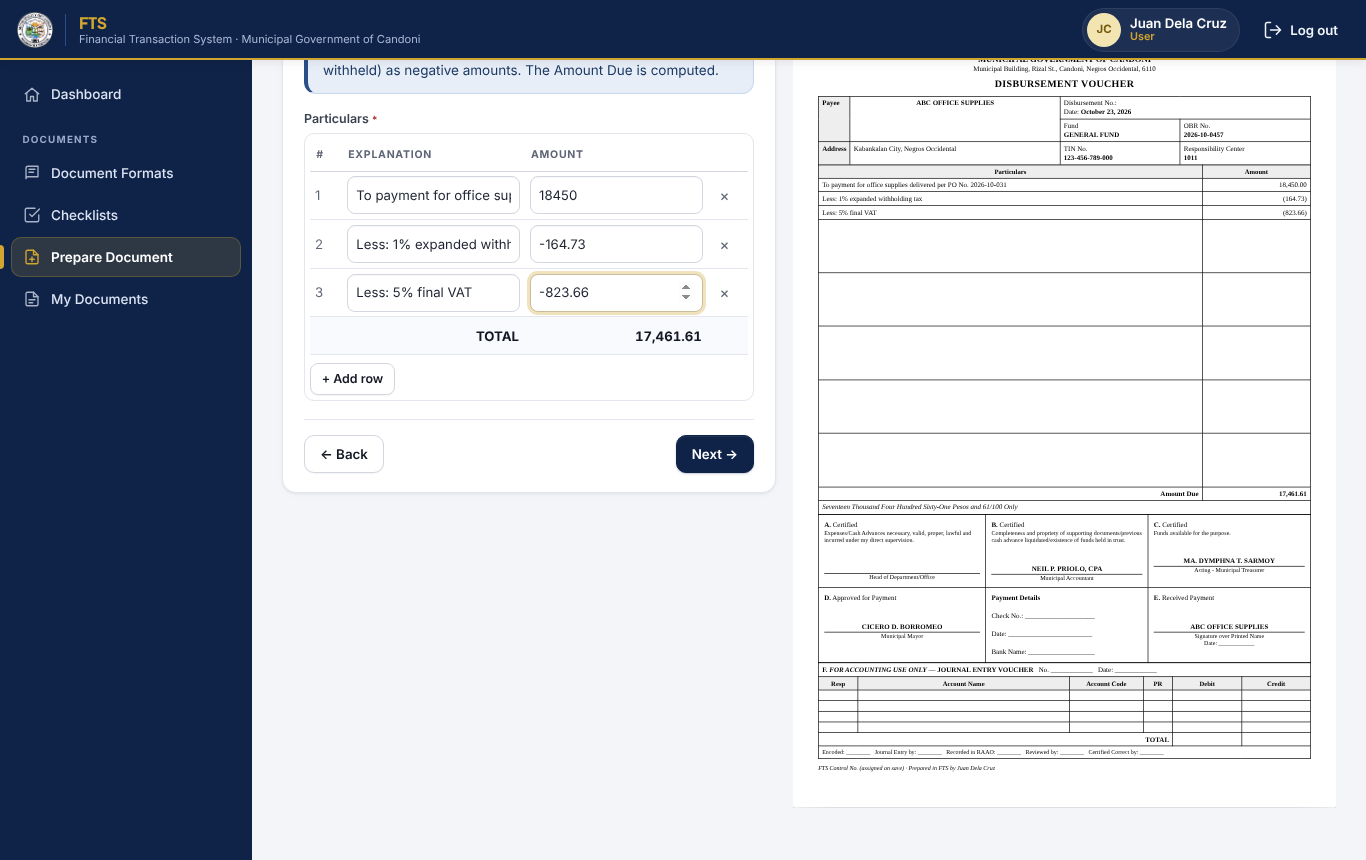
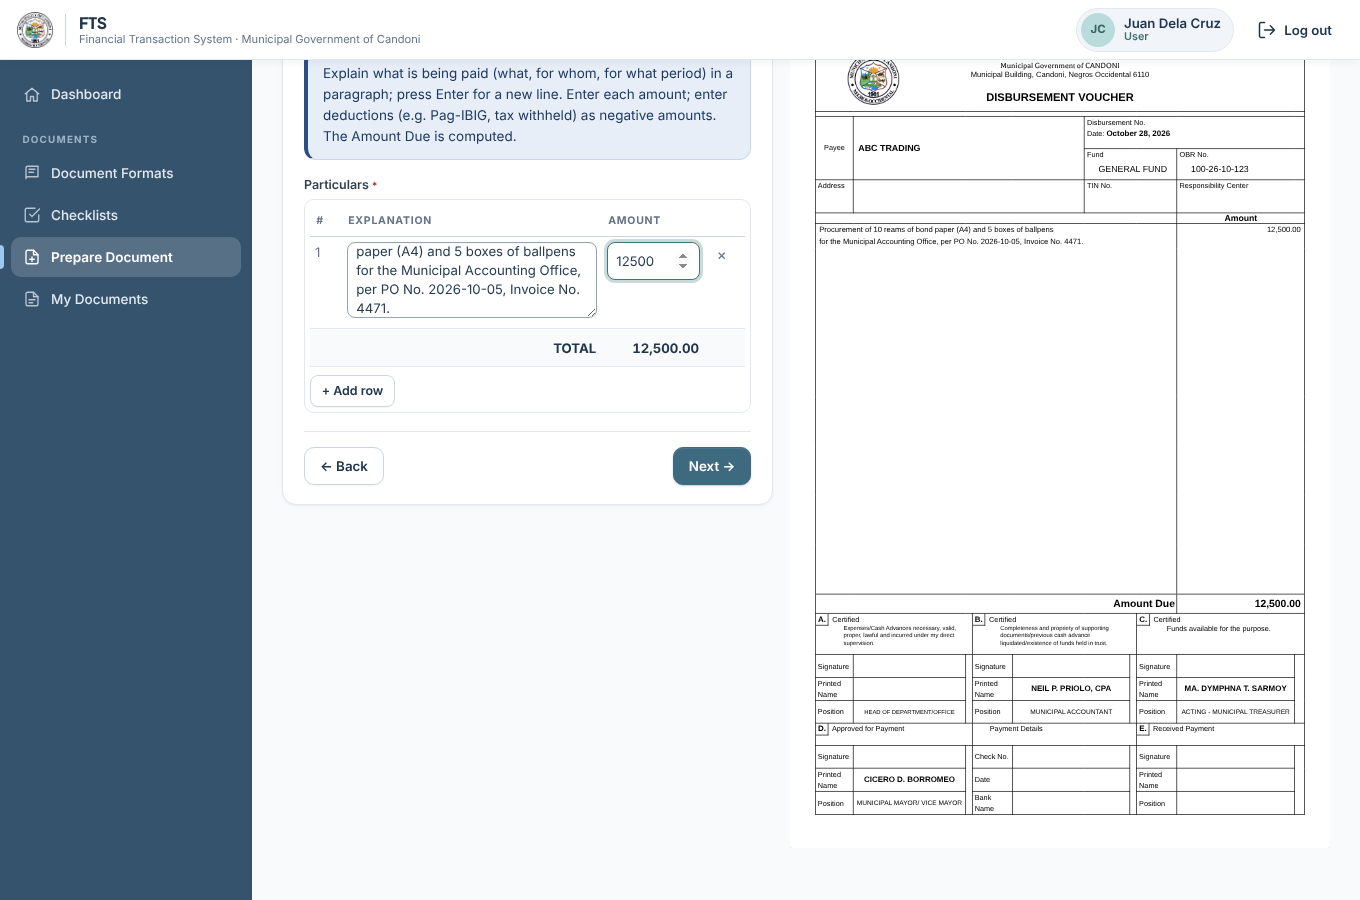
Paragraph explanation on the DV; choose the transaction in the Checklist step
- Table columns can be "Long text (paragraph)": a multi-line box whose
  line breaks print. The DV's Explanation uses it (DV starter format v3,
  so sites that have not edited the DV pick it up on admin sign-in).
- DV, Payroll and LR no longer start with the type of transaction: the
  wizard starts with the payee, and the transaction is chosen in the
  Checklist step, which then loads its checklist.

Claude-Session: https://claude.ai/code/session_01GnFsLTLAEYsru2JXe8dyZr

diff --git a/src/pages/PrepareDocument.jsx b/src/pages/PrepareDocument.jsx
@@ -7,7 +7,6 @@ import {
 import { buildSteps, computeFields, initialData, missingFields } from '../lib/forms.js';
 import { effectiveChecklist, missingRequired } from '../lib/checklists.js';
 import ChecklistStep from '../components/ChecklistStep.jsx';
-import TransactionStep from '../components/TransactionStep.jsx';
 import ChecklistSheet from '../components/ChecklistSheet.jsx';
 import { signatoriesFrom } from '../lib/signatories.js';
 import FieldInput from '../components/FieldInput.jsx';
@@ -87,19 +86,12 @@ function Wizard({ typeId, docId }) {
     if (!type) return [];
     const fromLibrary = type.checklistSource && type.checklistSource !== 'own';
     return [
-      // DV, Payroll and LR start with the type of transaction, so the user knows
-      // which documents to prepare before encoding anything.
-      ...(fromLibrary ? [{
-        id: '__transaction',
-        title: 'Type of Transaction',
-        instructions: 'Choose the type of transaction first. FTS shows the checklist of the Municipal Accounting Office for it: the documents you need to prepare and attach.',
-      }] : []),
       ...buildSteps(type),
       {
         id: '__checklist',
         title: 'Checklist',
         instructions: fromLibrary
-          ? 'Attach each document on the checklist, then tick Y (or N/A if it does not apply). Items marked required must be ticked before the document can be marked complete.'
+          ? 'Choose the type of transaction to load its checklist from the Municipal Accounting Office. Attach each document on it, then tick Y (or N/A if it does not apply). Items marked required must be ticked before the document can be marked complete.'
           : 'Confirm that each requirement is attached or complied with. Items marked required must be ticked before the document can be marked complete.',
       },
       { id: '__review', title: 'Review & Save', instructions: 'Review the generated document. Save as draft to continue later, or mark complete when everything is encoded. Then print it and process it as shown below.' },
@@ -118,7 +110,7 @@ function Wizard({ typeId, docId }) {
   const needsTransaction = library && !transaction;
 
   const next = () => {
-    if (stepMissing.length || (step.id === '__transaction' && !transaction)) { setShowErrors(true); return; }
+    if (stepMissing.length) { setShowErrors(true); return; }
     setShowErrors(false);
     setStepIndex((i) => Math.min(i + 1, steps.length - 1));
   };
@@ -173,18 +165,12 @@ function Wizard({ typeId, docId }) {
             </div>
           )}
 
-          {step.id === '__transaction' && (
-            <TransactionStep kind={type.checklistSource} transaction={transaction}
+          {step.id === '__checklist' && (
+            <ChecklistStep type={type} transaction={transaction} state={checklist} onState={setChecklist}
               onTransaction={(t) => {
                 if (transaction?.code !== t.code) setChecklist({});
                 setTransaction(t);
-                setShowErrors(false);
               }} />
-          )}
-
-          {step.id === '__checklist' && (
-            <ChecklistStep type={type} transaction={transaction} state={checklist} onState={setChecklist}
-              onChangeTransaction={() => setStepIndex(0)} />
           )}
 
           {step.id === '__review' && (
@@ -211,9 +197,6 @@ function Wizard({ typeId, docId }) {
             </div>
           )}
 
-          {showErrors && step.id === '__transaction' && !transaction && (
-            <div className="alert">Choose the type of transaction to continue.</div>
-          )}
           {showErrors && stepMissing.length > 0 && (
             <div className="alert">Please fill in: {stepMissing.map((f) => f.label).join(', ')}</div>
           )}
@@ -225,13 +208,13 @@ function Wizard({ typeId, docId }) {
         </section>
 
         <div className="preview-col">
-          {(step.id === '__checklist' || step.id === '__transaction') && activeChecklist ? (
+          {step.id === '__checklist' && activeChecklist ? (
             <>
               <div className="preview-label no-print row gap" style={{ justifyContent: 'space-between' }}>
                 <span>Checklist {activeChecklist.code}</span>
                 <button type="button" className="btn btn-sm" onClick={() => window.print()}>Print checklist</button>
               </div>
-              <ChecklistSheet checklist={activeChecklist} state={step.id === '__checklist' ? checklist : undefined}
+              <ChecklistSheet checklist={activeChecklist} state={checklist}
                 data={data} settings={settings} />
             </>
           ) : (

diff --git a/src/components/ChecklistStep.jsx b/src/components/ChecklistStep.jsx
@@ -1,3 +1,5 @@
+import { useState } from 'react';
+import TransactionPicker from './TransactionPicker.jsx';
 import { checklistProgress, effectiveChecklist, groupItems, isChecked } from '../lib/checklists.js';
 
 function Answer({ item, value, onChange }) {
@@ -17,26 +19,28 @@ function Answer({ item, value, onChange }) {
 }
 
 // Checklist step of the wizard: tick Y / N/A for each required document.
-// For library-based document types (DV, Payroll, LR) the transaction was chosen in step 1.
-export default function ChecklistStep({ type, transaction, state, onState, onChangeTransaction }) {
+// For library-based document types (DV, Payroll, LR) the type of transaction is chosen here,
+// which loads its checklist from the library.
+export default function ChecklistStep({ type, transaction, state, onState, onTransaction }) {
+  const [picking, setPicking] = useState(false);
   const library = type.checklistSource && type.checklistSource !== 'own';
   const checklist = effectiveChecklist(type, transaction);
   const progress = checklistProgress(checklist?.items, state);
 
   return (
     <div>
-      {library && (transaction ? (
+      {library && (transaction && !picking ? (
         <div className="chosen">
           <span className="code">{transaction.code}</span>
           <span className="t"><b>{transaction.title}</b><div className="small muted">{transaction.category}</div></span>
-          <button type="button" className="btn btn-sm" onClick={onChangeTransaction}>Change</button>
+          <button type="button" className="btn btn-sm" onClick={() => setPicking(true)}>Change</button>
         </div>
       ) : (
-        <div className="alert">No type of transaction chosen.{' '}
-          <button type="button" className="link" onClick={onChangeTransaction}>Choose it in step 1</button>.</div>
+        <TransactionPicker kind={type.checklistSource} value={transaction}
+          onPick={(t) => { onTransaction(t); setPicking(false); }} />
       ))}
 
-      {checklist && (
+      {checklist && !picking && (
         <>
           {checklist.items.length === 0 && <p className="muted">No checklist for this document type.</p>}
           {checklist.items.length > 0 && (

diff --git a/src/components/FieldInput.jsx b/src/components/FieldInput.jsx
@@ -21,7 +21,7 @@ function TableInput({ field, value, onChange, disabled }) {
         <thead>
           <tr>
             <th style={{ width: 32 }}>#</th>
-            {columns.map((c) => <th key={c.key}>{c.label}</th>)}
+            {columns.map((c) => <th key={c.key} style={c.type === 'textarea' ? { minWidth: 260 } : undefined}>{c.label}</th>)}
             {!disabled && <th style={{ width: 40 }} />}
           </tr>
         </thead>
@@ -31,15 +31,20 @@ function TableInput({ field, value, onChange, disabled }) {
               <td className="muted">{i + 1}</td>
               {columns.map((c) => (
                 <td key={c.key}>
-                  <input
-                    type={inputType(c.type)}
-                    step={c.type === 'currency' ? '0.01' : undefined}
-                    value={row[c.key] ?? ''}
-                    readOnly={Boolean(c.compute)}
-                    disabled={disabled}
-                    className={c.compute ? 'computed' : ''}
-                    onChange={(e) => setRow(i, c.key, e.target.value)}
-                  />
+                  {c.type === 'textarea' ? (
+                    <textarea rows={3} value={row[c.key] ?? ''} disabled={disabled}
+                      onChange={(e) => setRow(i, c.key, e.target.value)} />
+                  ) : (
+                    <input
+                      type={inputType(c.type)}
+                      step={c.type === 'currency' ? '0.01' : undefined}
+                      value={row[c.key] ?? ''}
+                      readOnly={Boolean(c.compute)}
+                      disabled={disabled}
+                      className={c.compute ? 'computed' : ''}
+                      onChange={(e) => setRow(i, c.key, e.target.value)}
+                    />
+                  )}
                 </td>
               ))}
               {!disabled && (

diff --git a/src/lib/defaults.js b/src/lib/defaults.js
@@ -32,10 +32,10 @@ const DV = {
   active: true,
   checklistSource: 'disbursement',
   // Raised when FTS revises this starter format; sites that have not edited it are updated (lib/api.js).
-  starterVersion: 2,
+  starterVersion: 3,
   steps: [
     { id: 's1', title: 'Payee', instructions: 'Encode the payee exactly as on the approved OBR/FURS. The Disbursement No. is assigned by Accounting; leave it blank.' },
-    { id: 's2', title: 'Particulars', instructions: 'Explain what is being paid (what, for whom, for what period). Enter each amount; enter deductions (e.g. Pag-IBIG, tax withheld) as negative amounts. The Amount Due is computed.' },
+    { id: 's2', title: 'Particulars', instructions: 'Explain what is being paid (what, for whom, for what period) in a paragraph; press Enter for a new line. Enter each amount; enter deductions (e.g. Pag-IBIG, tax withheld) as negative amounts. The Amount Due is computed.' },
     { id: 's3', title: 'Box A', instructions: 'The head of the requesting office (or authorized representative) certifies Box A. Boxes B, C and D print the Accountant, Treasurer and Mayor from Settings.' },
   ],
   fields: [
@@ -50,7 +50,7 @@ const DV = {
     {
       key: 'particulars', label: 'Particulars', type: 'table', required: true, step: 's2', minRows: 8,
       columns: [
-        { key: 'explanation', label: 'Explanation', type: 'text' },
+        { key: 'explanation', label: 'Explanation', type: 'textarea' },
         { key: 'amount', label: 'Amount', type: 'currency', total: true },
       ],
     },
@@ -789,6 +789,7 @@ export const FIELD_TYPES = [
 
 export const COLUMN_TYPES = [
   { value: 'text', label: 'Text' },
+  { value: 'textarea', label: 'Long text (paragraph)' },
   { value: 'number', label: 'Number' },
   { value: 'currency', label: 'Amount (₱)' },
   { value: 'date', label: 'Date' },

diff --git a/src/styles.css b/src/styles.css
@@ -304,6 +304,8 @@ button.badge { cursor: pointer; }
 .table-input table { font-size: .88rem; }
 .table-input th { text-align: left; font-size: .7rem; text-transform: uppercase; letter-spacing: .07em; color: var(--muted); font-weight: 700; padding: .5rem .4rem; white-space: nowrap; border-bottom: 1px solid var(--line-2); }
 .table-input td { padding: .32rem; border-bottom: 1px solid var(--line); }
+.table-input textarea { min-height: 76px; padding: .45rem .55rem; font-size: .88rem; border-radius: 8px; resize: vertical; line-height: 1.45; }
+.table-input td { vertical-align: top; }
 .table-input input { min-height: 38px; padding: .35rem .55rem; font-size: .88rem; border-radius: 8px; min-width: 90px; }
 .table-input + .btn, .table-input .btn { margin-top: .5rem; }
 .total-row td { font-weight: 700; padding: .55rem .4rem; color: var(--ink); background: #f8fafc; }

diff --git a/src/lib/template.js b/src/lib/template.js
@@ -75,7 +75,8 @@ export function renderTable(field, rows) {
   const columns = field?.columns || [];
   const list = Array.isArray(rows) ? rows : [];
   const minRows = Number(field?.minRows) || 0;
-  const align = (c) => (c.type === 'currency' || c.type === 'number' ? ' class="r"' : c.type === 'date' ? ' class="c"' : '');
+  const align = (c) => (c.type === 'currency' || c.type === 'number' ? ' class="r"' : c.type === 'date' ? ' class="c"'
+    : c.type === 'textarea' ? ' style="white-space:pre-line"' : '');
   const head = columns.map((c) => `<th>${escapeHtml(c.label)}</th>`).join('');
   const body = list
     .map((row) => `<tr class="blank">${columns

diff --git a/README.md b/README.md
@@ -4,7 +4,7 @@ FTS is a web app that stores the official formats of LGU financial documents. It
 
 - **Superadmins/admins** define each document type: its fields, a **guided step-by-step encoding process**, a **checklist of requirements**, a **processing guide** (which offices the document goes to, in what order, and what each does), and a **printable format** (HTML template).
 - **End users only encode.** They fill in the document through the guided wizard, confirm the checklist, and print it. FTS then shows them **how to process the document**. FTS does not route or transmit documents.
-- **Checklist library.** All 210 checklists of the Municipal Accounting Office are included: 201 for disbursements (1001–1907) and 9 for liquidations (2002–2015). On a DV, Payroll or Liquidation Report, the **first step** is to pick the type of transaction (e.g. *1613 – Payment to Supplier, Direct Acquisition*). FTS shows its requirements before anything is encoded, then loads that checklist with Y / N/A answers and prints it, filled in, as the cover sheet.
+- **Checklist library.** All 210 checklists of the Municipal Accounting Office are included: 201 for disbursements (1001–1907) and 9 for liquidations (2002–2015). On a DV, Payroll or Liquidation Report, the Checklist step asks for the type of transaction (e.g. *1613 – Payment to Supplier, Direct Acquisition*), then loads that checklist with Y / N/A answers and prints it, filled in, as the cover sheet. Each requirement has a Document Type and Document Details.
 
 **Try it on your computer:** `npm install`, then `npm run local`. No Firebase project is needed. See [docs/LOCALHOST.md](docs/LOCALHOST.md) for the full walkthrough with screenshots.
 
@@ -18,7 +18,7 @@ Stack: React + Vite, Firebase Authentication + Cloud Firestore, deployed on Netl
 |---|---|
 | Document Formats | Browse and search every format by category. View the guided steps, the processing guide and the checklist, and print a blank form. |
 | Checklists | The disbursement and liquidation checklist library, searchable by number or words. Each checklist can be printed blank. Admins load, edit and add checklists. |
-| Prepare Document | Step-by-step wizard with per-step instructions and required-field checks, then the checklist and a review. DV, Payroll and LR start with the type of transaction, so the user sees the required documents first. Totals, net pay and amounts to be reimbursed are computed. A live print preview updates as you type. When printed, each form is portrait and fits one page: scaled down if it is too tall or too wide, and its main table stretched to fill the page if there is room. The preview is the exact printed page. |
+| Prepare Document | Step-by-step wizard with per-step instructions and required-field checks, then the checklist and a review. On DV, Payroll and LR, the type of transaction is chosen in the Checklist step. Table columns can be paragraphs (the DV's Explanation). Totals, net pay and amounts to be reimbursed are computed. A live print preview updates as you type. When printed, each form is portrait and fits one page: scaled down if it is too tall or too wide, and its main table stretched to fill the page if there is room. The preview is the exact printed page. |
 | Documents | Each document gets an automatic control number, e.g. `DV-2026-10-0001`. Status goes Draft → Complete, or Cancelled. Each document shows **How to process this document**. You can filter, search, print and see the history of each document. |
 | Document Types (admin) | Field builder (text, long text, number, amount, date, dropdown, line-item tables with computed columns and totals), steps builder, checklist builder, processing-guide builder, and template editor with live preview. Import/export as JSON. Ten starter formats are included (DV, OBR, FURS, Payroll, PCV, LR, IT, PR, PO, JO), printed portrait and **fit to page** (width and height): the DV on Folio (8.5 × 13 in), everything else on A4. |
 | Users (admin) | New accounts wait for approval. Admins approve or deactivate users. Only the superadmin grants admin/superadmin. |

diff --git a/docs/LOCALHOST.md b/docs/LOCALHOST.md
@@ -117,33 +117,19 @@ The printout follows the Accounting Office's Word checklist: A4, Times New Roman
 
 ![Checklist 1613](images/05-checklist-1613.png)
 
-### Step 1 for a DV, Payroll or Liquidation Report: choose the type of transaction
-
-Click **Prepare this document**, or go to **Prepare Document** and pick a format. For a **DV**, **Payroll** or **Liquidation Report**, the first step asks **"What type of transaction is this?"**, before you encode anything. Type a checklist number or some words (e.g. `1613` or `direct acquisition`) and pick one. **Next** doesn't work until you've chosen.
-
-![Choosing the type of transaction](images/07-dv-transaction-picker.png)
-
-FTS then shows every document the transaction requires, marked **Required** or **If applicable**, together with the description and the legal basis. The checklist itself appears on the right. Click **Print checklist** to keep a blank copy while you gather the documents.
-
-![Requirements of the chosen transaction](images/08-dv-transaction-requirements.png)
-
-For a liquidation it works the same way, for example **2002 – Liquidation of Cash Advance for Local Travel**:
-
-![Liquidation: type of transaction](images/16-lr-transaction.png)
-
 ### Encode the details
 
-Fill in each step. The instructions for the step are shown in the blue box, and the preview on the right updates as you type. You can't go to the next step until the required fields (marked \*) are filled in.
+Click **Prepare this document**, or go to **Prepare Document** and pick a format. Fill in each step. The instructions for the step are shown in the blue box, and the preview on the right updates as you type. You can't go to the next step until the required fields (marked \*) are filled in.
 
 ![DV payee](images/09-dv-payee.png)
 
-For line items, click **+ Add row**. Enter deductions as negative amounts: they print in parentheses, like `(164.73)`. The Amount Due fills in automatically. The printed names in boxes B, C and D come from Settings.
+For line items, click **+ Add row**. On the DV, the **Explanation** is a paragraph box: write the particulars in full and press Enter for a new line; it prints the same way. Enter deductions as negative amounts: they print in parentheses, like `(164.73)`. The Amount Due fills in automatically. The printed names in boxes B, C and D come from Settings.
 
 ![DV particulars](images/10-dv-particulars.png)
 
-### Checklist step: tick what you attached
+### Checklist step: choose the transaction, tick what you attached
 
-The checklist of the transaction you chose in step 1 is shown. If you picked the wrong transaction, click **Change** to go back to step 1; the answers you already gave are cleared.
+For a **DV**, **Payroll** or **Liquidation Report**, the Checklist step asks for the **type of transaction**. Type a checklist number or some words (e.g. `1613` or `direct acquisition`, or `2002` for a liquidation of local travel) and pick one. Its checklist from the Municipal Accounting Office loads, and the preview on the right shows it as it will print. To pick another, click **Change**; the answers you already gave are cleared.
 
 - tick **Y** for each document you attached;
 - tick **N/A** for items that don't apply (always-required items have no N/A);
